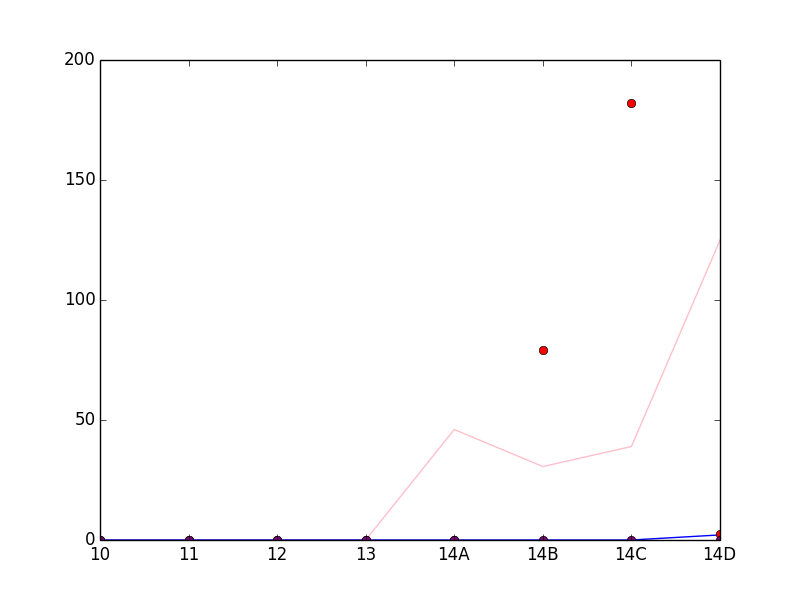
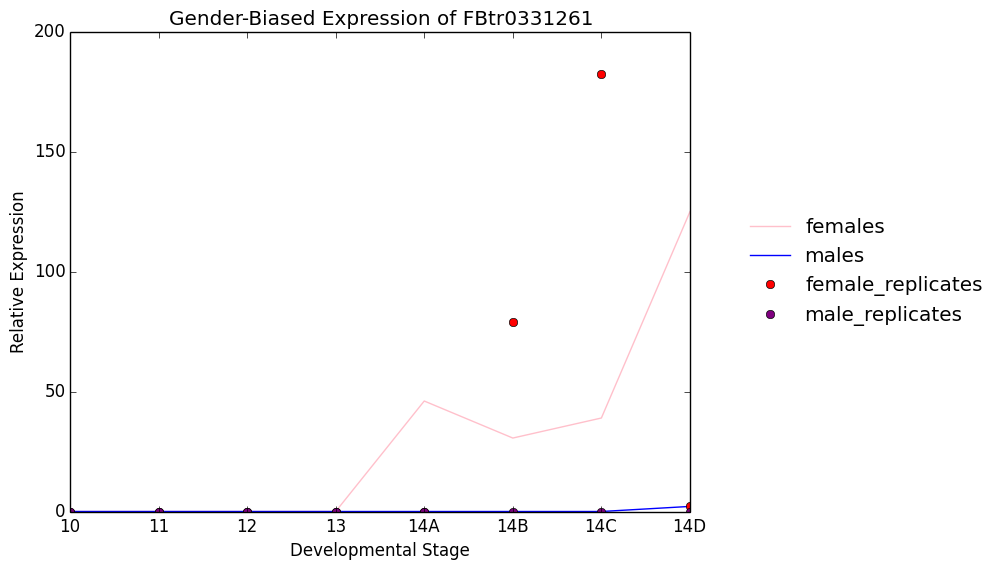
finished basic exercises

diff --git a/day4-homework/basic-exercise.py b/day4-homework/basic-exercise.py
@@ -67,8 +67,10 @@ plt.plot(x3, 'o', c = "red")
 plt.plot(x4, 'o', c = "purple")
 plt.ylim(0,200)
 plt.xticks(range(len(fpkms_f)), df_samples["stage"])
-plt.xlabel("Developmental Stage", fontsize = 10)
-plt.ylabel("Relative Expression", fontsize = 10)
-plt.title("")
-plt.savefig( "timecourse.png" )
+plt.xlabel("Developmental Stage", fontsize = 12)
+plt.ylabel("Relative Expression", fontsize = 12)
+plt.title("Gender-Biased Expression of " + str(transcript))
+art =[]
+plt.legend(['females', 'males', 'female_replicates', 'male_replicates'], loc = "center right", bbox_to_anchor = (1.5, 0.5), frameon = False, numpoints = 1)
+plt.savefig( "timecourse.png", additional_artists = art, bbox_inches = "tight")
 plt.close()
